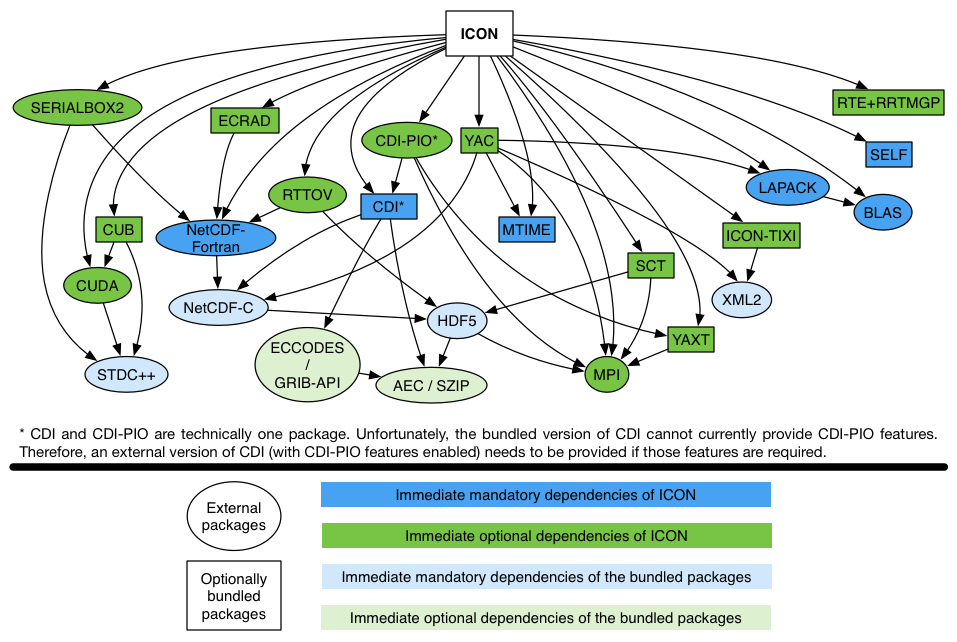
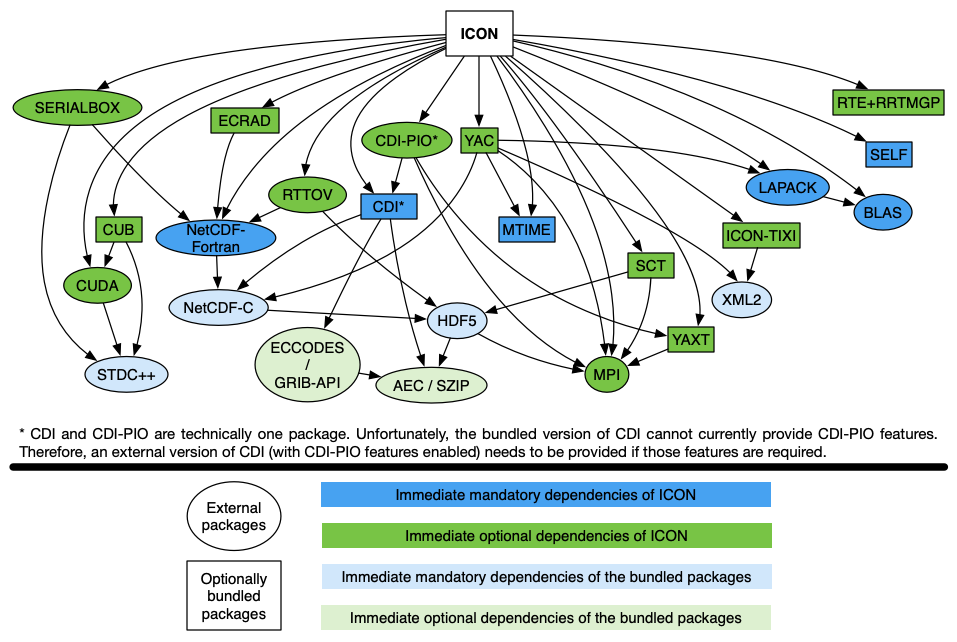
build: update the documentation

diff --git a/config/generic/README.md b/config/generic/README.md
@@ -9,25 +9,76 @@ rendered or use a Markdown viewer of your choice
 # Introduction
 
 This directory contains generic
-[configure wrappers](../../README.md##configuration-wrappers) for ICON. The
-wrappers are written with the assumption that the required
-[software libraries](#software-libraries) are installed to the same prefix. The
-prefix defaults to `/opt/local` on macOS and to `/usr` on other platforms. The
-default values can be overridden by setting the environment variable
-`ICON_SW_PREFIX`:
+[configure wrappers](../../README.md##configuration-wrappers) for ICON. You can
+use them either inside the [docker containers](#docker-containers) or
+[natively](#native-building) on your system.
+
+# Docker containers
+
+The easiest way to build and run ICON on your personal machine is to use Docker
+images from the
+[Gitlab container registry](https://gitlab.dkrz.de/icon/icon-cimd/container_registry)
+associated with the [icon-cimd project](https://gitlab.dkrz.de/icon/icon-cimd).
+
+First, you will need to [install Docker](https://docs.docker.com/get-docker/) on
+your machine. Once that is done, you need to log in to the registry with the
+same credentials you are using to access ICON source code repository at
+[gitlab.dkrz.de](https://gitlab.dkrz.de/):
+```bash
+docker login registry.gitlab.dkrz.de
+```
+
+The recommended workflow is to build and run ICON inside the container and
+manage and edit the source code in a separate terminal, using the tools
+available on your machine. This scenario implies that the directory with ICON
+source code is located on the host machine and mounted to the container. You
+will also need to mount a so-called `pool` directory containing ICON input
+files, e.g. grid files. The contents and the layout of the directory depends on
+the experiment you want to run and are not covered in this document.
+
+Run the container in the interactive mode as follows:
+```bash
+docker run -it -v /path/to/icon-src:/home/icon/icon -v /path/to/pool:/home/icon/pool registry.gitlab.dkrz.de/icon/icon-cimd/icon-dev
+```
+where `/path/to/icon-src` and `/path/to/pool` are paths to ICON source and
+`pool` directories on your machine, and `/home/icon/icon` and `/home/icon/pool`
+are respective mount points of the directories inside the container.
+
+As a result of the previous command you will get an interactive command prompt
+of the container. You can now configure, build and run ICON using the following
+commands as a reference:
+```console
+icon@dev-gcc-6.5.0$ cd ./icon
+icon@dev-gcc-6.5.0$ ./config/generic/gcc
+icon@dev-gcc-6.5.0$ make -j4
+icon@dev-gcc-6.5.0$ ./make_runscripts -s atm_ampi_test
+icon@dev-gcc-6.5.0$ cd ./run
+icon@dev-gcc-6.5.0$ ./exp.atm_amip_test.run
+```
+> **_NOTE:_** To be able to run ICON inside the container, you might need to
+increase the amount of RAM available to Docker (Preferences->Resources->Memory).
+
+# Native building
+
+The generic wrappers in this directory are written with the assumption that the
+required [software libraries](#software-libraries) are installed to the same
+prefix. The prefix defaults to `/opt/local` on macOS and to `/usr` on other
+platforms. The default values can be overridden by setting the environment
+variable `ICON_SW_PREFIX`:
 ```bash
 export ICON_SW_PREFIX='/path/to/icon/prerequisites'
 ```
 
-# Prerequisites
+## Prerequisites
 
 This section provides a list of software required for building and running
 ICON. The users can build and install (to the same prefix) the listed packages
-manually or use a [package managers](https://en.wikipedia.org/wiki/Package_manager)
-available for their platform. The basic instructions on how to do it on several
-popular platforms are provided in section [Tested platforms](#tested-platforms).
+manually or use a
+[package managers](https://en.wikipedia.org/wiki/Package_manager) available for
+their platform. The basic instructions on how to do it on several popular
+platforms are provided in section [Tested platforms](#tested-platforms).
 
-## Building tools
+### Building tools
 
 - [GNU Make](https://www.gnu.org/software/make) v3.81+
 - [Python](https://www.python.org) v2.6+ or v3.5+
@@ -35,7 +86,7 @@ popular platforms are provided in section [Tested platforms](#tested-platforms).
 - Interoperable C and Fortran compilers (see also known
 [compiler issues](https://gitlab.dkrz.de/icon/icon/-/boards/189))
 
-## Software libraries
+### Software libraries
 
 - [MPICH](https://www.mpich.org), [OpenMPI](https://www.open-mpi.org) or any
 other [MPI](https://www.mpi-forum.org) implementation that provides compiler
@@ -48,8 +99,8 @@ of ICON)
 - <a name="netcdf-c"/> [NetCDF-C](https://www.unidata.ucar.edu/software/netcdf/docs)
 with NetCDF-4 support
 - [NetCDF-Fortran](https://www.unidata.ucar.edu/software/netcdf/docs-fortran)
-- [ecCodes](https://confluence.ecmwf.int/display/ECC) with JPEG2000 support
-(only C interface required)
+- [ecCodes](https://confluence.ecmwf.int/display/ECC) with JPEG2000 and AEC
+support (only C interface required)
 - [BLAS](http://www.netlib.org/blas)
 - [LAPACK](http://www.netlib.org/lapack)
 - [Libxml2](http://www.xmlsoft.org)
@@ -57,7 +108,7 @@ with NetCDF-4 support
 See section [ICON dependencies](../../README.md#icon-dependencies) for more
 details.
 
-## Optional tools
+### Optional tools
 
 - [KornShell](http://www.kornshell.com) for the
 [generated runscripts](../../README.md#running)
@@ -68,18 +119,17 @@ post-processing, also used by some of the
 [generated runscipts](../../README.md#running) in the case of
 [out-of-source building](../../README.md#out-of-source-configuration-building)
 
-# Tested platforms
+## Tested platforms and tools
 
-This section provides basic but tested instructions on how to install most
-commonly required subset of
-[ICON dependencies](../../README.md#icon-dependencies) on different operating
-systems using relevant
+This section provides basic instructions on how to install most commonly
+required subset of [ICON dependencies](../../README.md#icon-dependencies) on
+different operating systems using relevant
 [package managers](https://en.wikipedia.org/wiki/Package_manager).
 
 > **_NOTE:_** The current recommended version of [GCC](https://gcc.gnu.org/) is
 **6.x**. This is why most of the examples below are based on this version.
 
-## [MacPorts](https://www.macports.org)
+### macOS with [MacPorts](https://www.macports.org)
 
 **Tested on `macOS Catalina 10.15.5`.**
 
@@ -110,7 +160,7 @@ hash -r
 sudo port -N install cdo +netcdf
 ```
 
-## [Apt](https://wiki.debian.org/Apt)
+### Ubuntu with [Apt](https://wiki.debian.org/Apt)
 
 **Tested on `Ubuntu Bionic Beaver 18.04.4 LTS`.**
 
@@ -150,7 +200,7 @@ sudo update-alternatives --set mpirun /usr/bin/mpirun.mpich
 sudo apt install -y ksh cdo
 ```
 
-## [Pacman](https://wiki.archlinux.org/index.php/pacman)
+### Arch Linux with [Pacman](https://wiki.archlinux.org/index.php/pacman)
 
 **Tested on `Arch Linux 2020.07.01`.**
 
@@ -181,7 +231,7 @@ sudo pacman -S --noconfirm rsync ksh
 currently broken and its `PKGBUILD` file might need to be extended with an
 additional CMake argument `-DCMAKE_Fortran_FLAGS=-fallow-argument-mismatch`.
 
-## [Spack](https://spack.io)
+### macOS/Linux with [Spack](https://spack.io)
 
 **Tested on `Ubuntu Bionic Beaver 18.04.4 LTS`.**
 

diff --git a/README.md b/README.md
@@ -79,6 +79,9 @@ $ /path/to/icon/config/dkrz/mistral.intel --enable-openmp
 This way, you can build ICON in several different configurations, i.e. with
 different compilers and features, using the same copy of the source code.
 
+> **_NOTE:_** If you want to build and run ICON on your personal
+computer/laptop, consider using [generic configure wrappers](./config/generic).
+
 > **_NOTE:_** If there is no configure wrapper script for your platform or
 machine, refer to section [Configuration](#configuration) for information on how
 to work with the [./configure](./configure) script directly.
@@ -178,7 +181,7 @@ recommended (topologically sorted) order for the `LIBS` argument is presented in
 |  5 | [LAPACK](http://www.netlib.org/lapack/) (or analogue) | mandatory | `LDFLAGS='-L/path/to/lapack/lib' LIBS='-llapack'` (depends on the implementation) |
 |  6 | [BLAS](http://www.netlib.org/blas/) (or analogue) | mandatory | `LDFLAGS='-L/path/to/blas/lib' LIBS='-lblas'` (depends on the implementation) |
 |  7 | [MTIME](https://gitlab.dkrz.de/icon-libraries/libmtime) | `--with-external-mtime`<sup><a name="f3-back" href="#f3">3</a></sup> | `FCFLAGS='-I/path/to/mtime/include' CPPFLAGS='-I/path/to/mtime/include' LDFLAGS='-L/path/to/mtime/lib' LIBS='-lmtime'` |
-|  8 | [SERIALBOX2](https://github.com/GridTools/serialbox) | `--enable-serialization` | `FCFLAGS='-I/path/to/serialbox2/include' LDFLAGS='-L/path/to/serialbox2/lib' LIBS='-lSerialboxFortranShared'` |
+|  8 | [SERIALBOX](https://github.com/GridTools/serialbox) | `--enable-serialization` | `FCFLAGS='-I/path/to/serialbox2/include' LDFLAGS='-L/path/to/serialbox2/lib' LIBS='-lSerialboxFortran'` |
 |  9 | [CDI](https://code.mpimet.mpg.de/projects/cdi/) or CDI-PIO | `--with-external-cdi`<sup><a name="f4-back" href="#f4">4</a></sup> | `FCFLAGS='-I/path/to/libcdi/include' LDFLAGS='-L/path/to/libcdi/lib' LIBS='-lcdi_f2003 -lcdi'` (or `LIBS='-lcdi_f2003 -lcdipio -lcdi'`) |
 | 10 | [ECCODES](https://confluence.ecmwf.int/display/ECC) or [GRIB-API](https://confluence.ecmwf.int/display/GRIB/Home) | `--enable-grib2 --without-external-cdi`<sup><a name="f5-back" href="#f5">5</a></sup> | `CPPFLAGS='-I/path/to/eccodes/include' LDFLAGS='-L/path/to/eccodes/lib' LIBS='-leccodes'` (or `LIBS='-lgrib_api'`) |
 | 11 | [YAXT](https://gitlab.dkrz.de/dkrz-sw/yaxt) | `--enable-yaxt --with-external-yaxt` or `--enable-cdi-pio --with-external-yaxt`<sup><a name="f6-back" href="#f6">6</a></sup> | `FCFLAGS='-I/path/to/yaxt/include' LDFLAGS='-L/path/to/yaxt/lib' LIBS='-lyaxt'` |
@@ -384,6 +387,8 @@ compiler flags specifiying search paths (`-I<path>`) and macros
 - `LDFLAGS` &mdash; common Fortran **and** C compiler flags to be used at the
 configuration **and** building stages when linking ICON **and** the bundled
 libraries;
+- `ICON_LDFLAGS` &mdash; Fortran compiler flags to be appended to `LDFLAGS` at
+the building stage when linking ICON;
 - `LIBS` &mdash; a list of libraries (see [Table 1](#icon-deptable) for the
 recommended order) to be passed to the linker by the Fortran compiler when
 linking ICON **and** to the configure scripts of the bundled libraries (which
@@ -408,7 +413,7 @@ ICON but at the same time can break the configuration (a flag is too restrictive
 for the configure checks to pass, e.g. `-fimplicit-none` for Gfortran) or the
 functionality of the bundled libraries (e.g. the optimization level required
 for ICON is too high and leads to errors in the functionality of the bundled
-libraries) can be put to `ICON_FCFLAGS` and `ICON_CFLAGS`, respectively.
+libraries) can be put to `ICON_FCFLAGS`, `ICON_CFLAGS` or `ICON_LDFLAGS`.
 4. Special optimization flags for the ocean component of ICON can be put to
 `ICON_OCEAN_FCFLAGS`.
 5. Fortran and C compiler flags that need to be used when compiling and linking
@@ -476,9 +481,7 @@ fully compatible with some compilers. For example, the flags
 incorrectly transformed by Libtool into
 `-Wl,-Wl -Wl,"" -Wl,-rpath -Wl,-Wl -Wl,"" -Wl,<path>`. A possible solution
 for this problem is to add the flags in the form understood by NAG compiler not
-to `LDFLAGS` but to `ICON_FCFLAGS` and make sure that the bundled libraries,
-especially the Libtool-based ones, will not receive them:
-`ICON_BUNDLED_FCFLAGS=`.
+to `LDFLAGS` but to `ICON_LDFLAGS`.
 
 > **_NOTE:_** The generated `-rpath` flags are applied only at the building
 stage and for the ICON executable only. However, some of the checks performed by
@@ -1210,9 +1213,10 @@ the issue?**</a>
 Most probably, you are running ICON on an unknown (unsupported) system. In that
 case, the runscript expects input data in your home directory
 `$HOME/pool/data/ICON`. You need to request the required input files from ICON
-developers and put it to the aformentioned folder. You can also save the data to
-a different directory and override the default path by setting the environment
-variable `icon_data_rootFolder` before generating the runscripts, for example:
+developers and put them to the aformentioned folder. You can also save the data
+to a different directory and override the default path by setting the
+environment variable `icon_data_rootFolder` before generating the runscripts,
+for example:
 ```console
 $ export icon_data_rootFolder='/path/to/ICON/data'
 $ ./make_runscripts -s atm_amip_test
